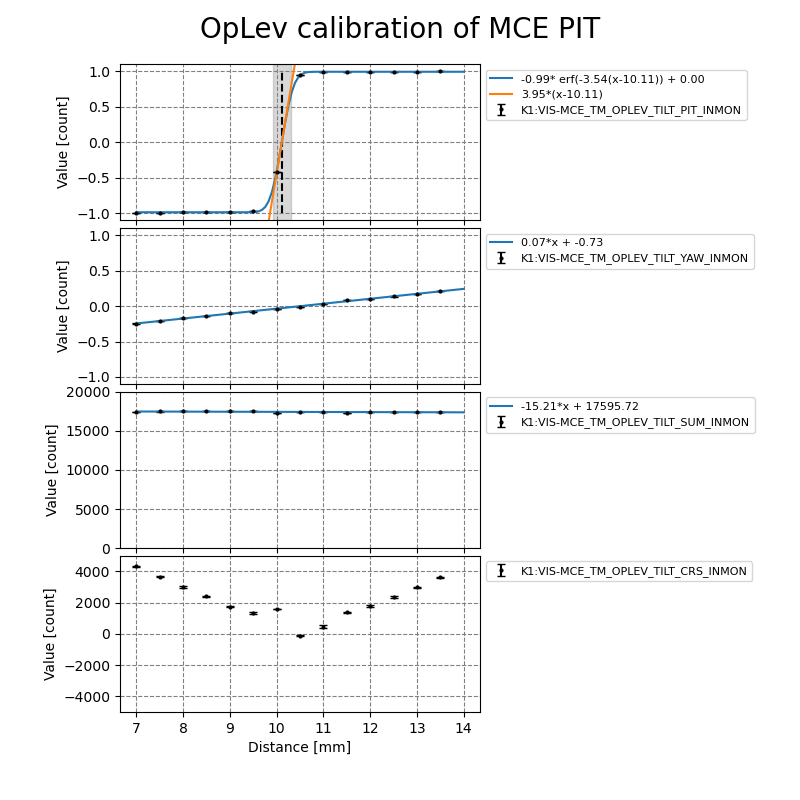
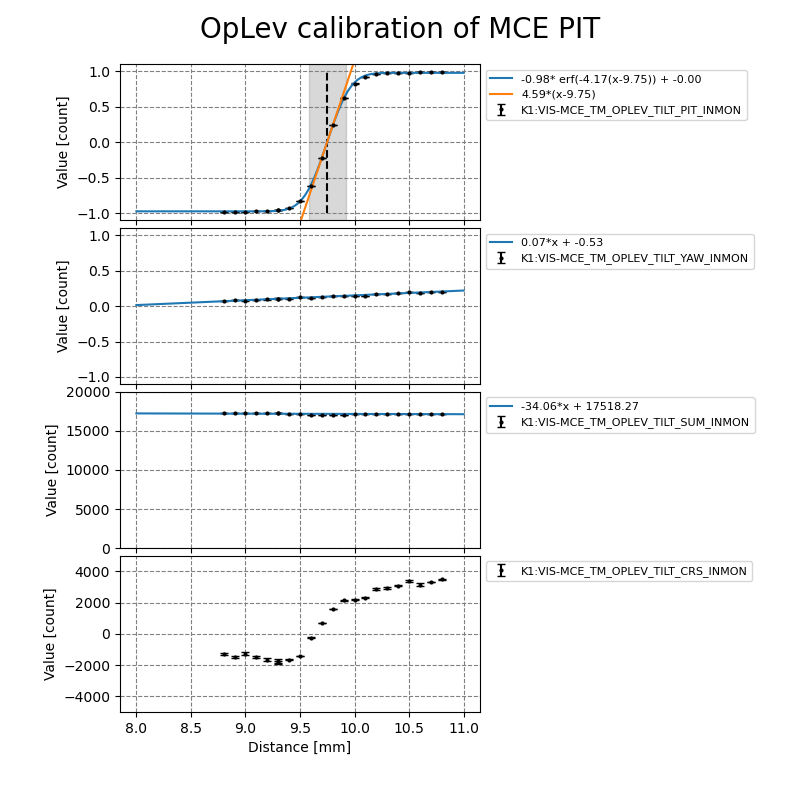
oplev: Fix bug due to Nan value in MCE_TM_OPLEV_TILT_YAW.txt

diff --git a/common/scripts/autocommissioning/oplev/calibration.py b/common/scripts/autocommissioning/oplev/calibration.py
@@ -51,8 +51,13 @@ def calibration(output,show=False):
             if dof not in _name[n]:
                 if 'SUM' not in _name[n] and 'CRS' not in _name[n]:
                     func = lambda x,a,b: a+b*x
-                    x = _df['Disp']
-                    popt, pcov = curve_fit(func,x,_df[_name[n]+'.mean'])
+                    x = _df['Disp'].values
+                    y = _df[_name[n]+'.mean'].values
+                    slope = (y[-1]-y[0])/(x[-1]-x[0])
+                    print(x)
+                    print(slope,(y[-1]-y[0]),(x[-1]-x[0]))
+                    ini_param = np.array([slope,0.0])
+                    popt, pcov = curve_fit(func,x,y,p0=ini_param)
                     _x = np.linspace(int(x.min()),int(x.max())+1,100)
                     a,b = popt
                     label = '{0:3.2f}*x + {1:3.2f}'.format(b,a)
@@ -60,16 +65,18 @@ def calibration(output,show=False):
             if dof in _name[n]:
                 func = lambda x,a,b,c,d: a*scipy.special.erf(b*(x-c)) + d
                 x = _df['Disp']
-                bounds = [[-1, -5, -20, -2],
-                          [+1, +5, +20, +2]]
-                y = _df[_name[n]+'.mean'].values
-                popt, pcov = curve_fit(func,x,_df[_name[n]+'.mean'],bounds=bounds)
+                # bounds = [[-1, -5, -20, -2],
+                #           [+1, +5, +20, +2]]
+                # popt, pcov = curve_fit(func,x,_df[_name[n]+'.mean'],bounds=bounds)
+                y = _df[_name[n]+'.mean'].values                
                 if (y[-1]-y[0])>0:
-                    ini_param = np.array([-1.0,-3.5,x.mean(),0.0])
+                    ini_param = np.array([-1.0,-4,x.mean(),0.0])
                 else:
-                    ini_param = np.array([-1.0,+3.5,x.mean(),0.0])                    
+                    ini_param = np.array([-1.0,+5,x.mean(),0.0])
+
+                print(ini_param)                    
                 popt, pcov = curve_fit(func,x,y,p0=ini_param)
-                
+                print(popt)
                 a,b,c,d = popt
                 _x = np.linspace(int(x.min()),int(x.max())+1,100)
                 #_x = x
@@ -119,9 +126,9 @@ def calibration(output,show=False):
 if __name__=='__main__':
     #plot('./mco_yaw.txt')
     calibration('./data/MCO_TM_OPLEV_TILT_YAW.txt',show=True)                
-    calibration('./data/MCE_TM_OPLEV_TILT_YAW.txt',show=True)
-    calibration('./data/MCE_TM_OPLEV_TILT_PIT.txt',show=True)
     calibration('./data/MCI_TM_OPLEV_TILT_PIT.txt',show=True)            
-    calibration('./data/MCI_TM_OPLEV_TILT_YAW.txt',show=True)       
+    calibration('./data/MCI_TM_OPLEV_TILT_YAW.txt',show=True)
+    calibration('./data/MCE_TM_OPLEV_TILT_PIT.txt',show=True)
+    calibration('./data/MCE_TM_OPLEV_TILT_YAW.txt',show=True)        
     #calibration('mce_yaw.txt')
     #calibration('mce_pit.txt')
